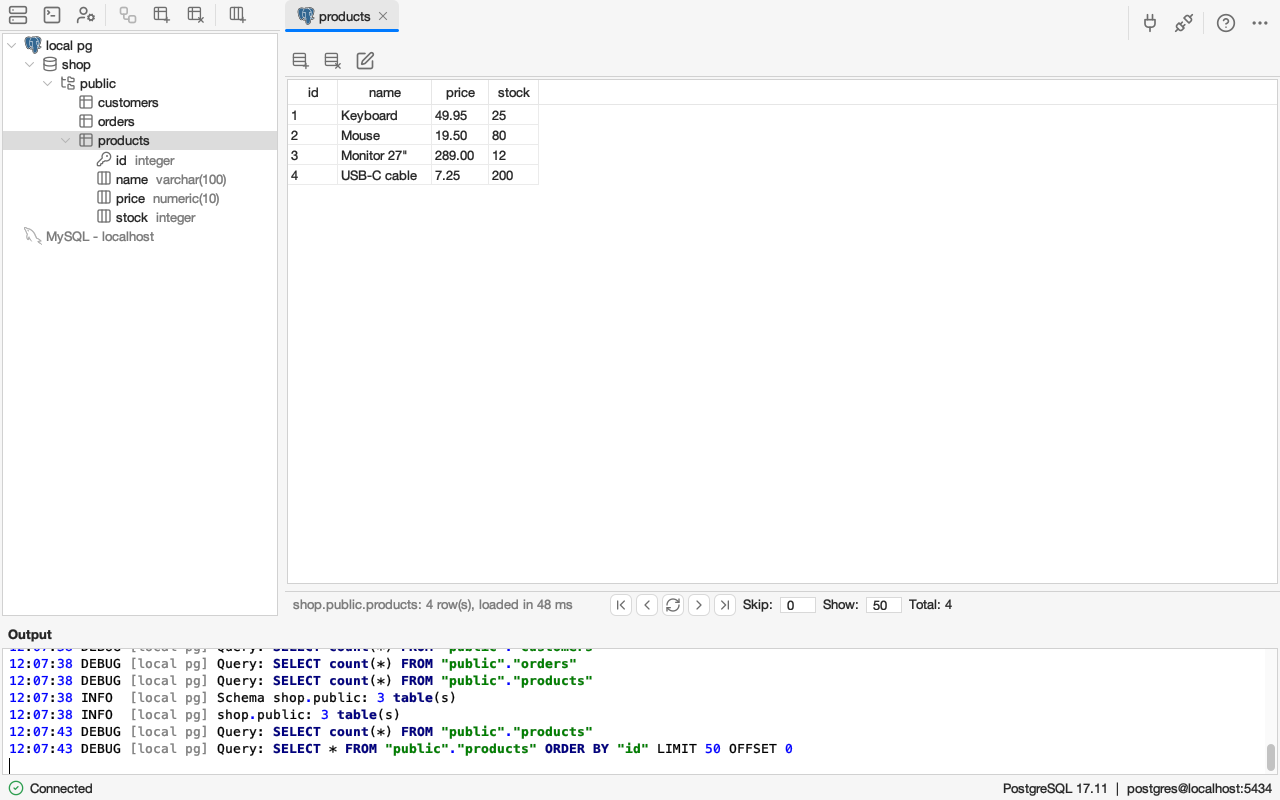
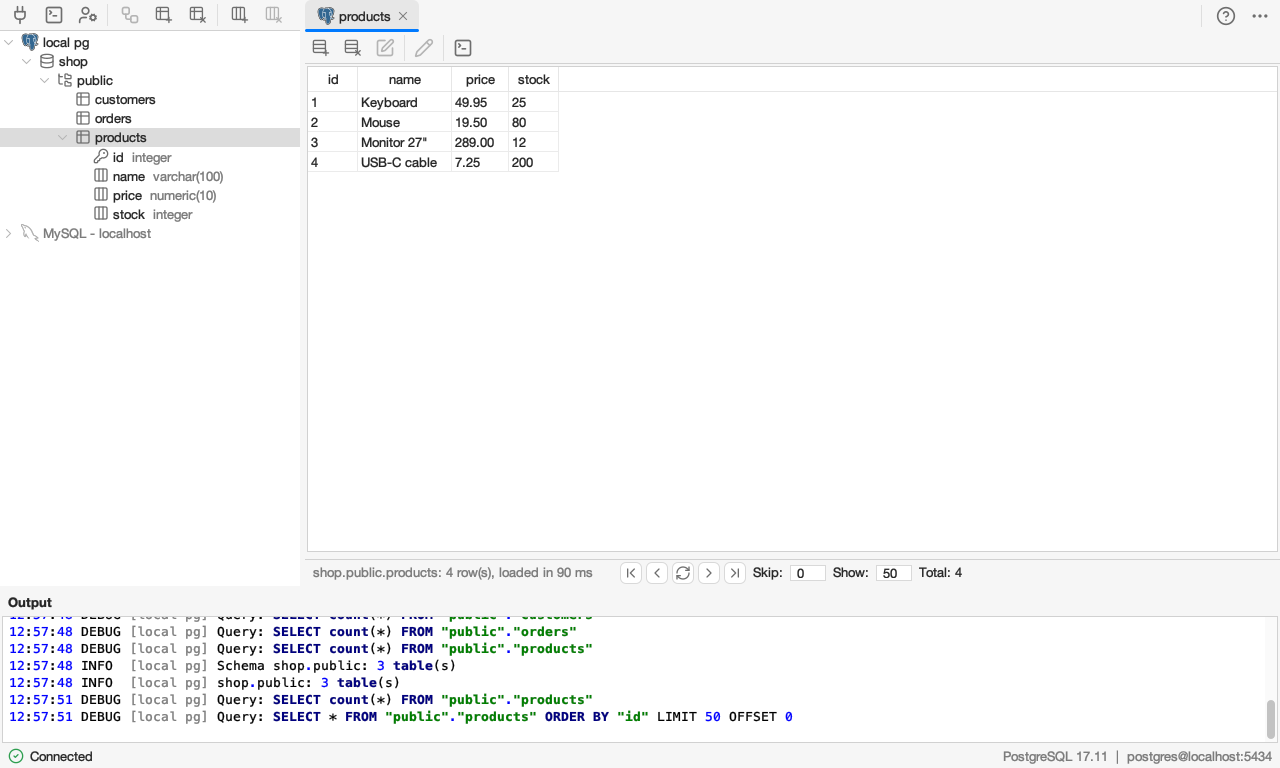
feat(connection): Connect in the explorer toolbar, double click opens a table, query on a table
Claude-Session: https://claude.ai/code/session_01TpgfMUNA4K1qpyx5mWFodg

diff --git a/src/main/java/nl/errorsoft/esql/connection/ui/ExplorerPanel.java b/src/main/java/nl/errorsoft/esql/connection/ui/ExplorerPanel.java
@@ -61,7 +61,7 @@ public class ExplorerPanel extends JPanel {
 	private static final String EMPTY = "empty";
 	private final JPanel cards = new JPanel(new java.awt.CardLayout()); // The tree, or the hint when it is empty
 
-	private final JButton refreshButton = button("pc", "Reload databases");
+	private final JButton connectButton = button("imgConnectSmall", "Connect");
 	private final JButton queryButton = button("imgRunQuery", "New query");
 	private final JButton usersButton = button("imgUserManager", "User manager");
 	private final JButton designerButton = button("imgDesigner", "Open in designer");
@@ -76,6 +76,8 @@ public class ExplorerPanel extends JPanel {
 
 		tree.setRootVisible(false);
 		tree.setShowsRootHandles(true);
+		// A double click is handled in doubleClicked: a table opens without expanding, other nodes still expand or collapse.
+		tree.setToggleClickCount(0);
 		tree.setCellRenderer(new DatabaseTreeCellRenderer(images, null));
 		ToolTipManager.sharedInstance().registerComponent(tree);
 		tree.addTreeWillExpandListener(new TreeWillExpandListener() {
@@ -121,7 +123,7 @@ public class ExplorerPanel extends JPanel {
 		});
 
 		JToolBar toolbar = ToolbarButtons.toolbar();
-		toolbar.add(refreshButton);
+		toolbar.add(connectButton);
 		toolbar.add(queryButton);
 		toolbar.add(usersButton);
 		toolbar.add(ToolbarButtons.separator());
@@ -131,11 +133,11 @@ public class ExplorerPanel extends JPanel {
 		toolbar.add(ToolbarButtons.separator());
 		toolbar.add(addFieldButton);
 		toolbar.add(dropFieldButton);
-		ToolbarButtons.style(refreshButton, queryButton, usersButton, designerButton, createTableButton, dropTableButton, addFieldButton, dropFieldButton);
+		ToolbarButtons.style(connectButton, queryButton, usersButton, designerButton, createTableButton, dropTableButton, addFieldButton, dropFieldButton);
 		toolbar.setBorder(BorderFactory.createCompoundBorder(BorderFactory.createMatteBorder(0, 0, 1, 0, UIManager.getColor("Component.borderColor")),
 			toolbar.getBorder()));
 
-		refreshButton.addActionListener(e -> act(ConnectionWindowController::showDatabaseTree));
+		connectButton.addActionListener(e -> connectSelected());
 		queryButton.addActionListener(e -> act(ConnectionWindowController::startQueryTab));
 		usersButton.addActionListener(e -> act(ConnectionWindowController::showUserManagerDialog));
 		designerButton.addActionListener(e -> act(ConnectionWindowController::openDatabaseInDesigner));
@@ -271,7 +273,6 @@ public class ExplorerPanel extends JPanel {
 		boolean inDatabase = selected instanceof Database || selected instanceof Schema;
 		boolean onTable = selected instanceof Table || selected instanceof TableColumn;
 
-		refreshButton.setEnabled(connected);
 		queryButton.setEnabled(connected);
 		usersButton.setEnabled(connected && controller.dialect().supports(Dialect.Feature.USER_MANAGER));
 		designerButton.setEnabled(connected && inDatabase);
@@ -292,7 +293,18 @@ public class ExplorerPanel extends JPanel {
 		}
 	}
 
-	/** A double click opens a database or table in a window; the tree expands a saved profile, which connects. */
+	/** Connects the selected saved profile; with anything else selected it opens the connection dialog for a new connection. */
+	private void connectSelected() {
+		TreePath path = tree.getSelectionPath();
+		Object selected = path == null ? null : ((DefaultMutableTreeNode) path.getLastPathComponent()).getUserObject();
+		if (selected instanceof ProfileNode profile) {
+			mainController.connect(profile.profile());
+		} else {
+			mainController.showConnectionProfileDialog();
+		}
+	}
+
+	/** A double click connects a saved profile, opens a table (without expanding it) and opens a database; other nodes expand or collapse. */
 	private void doubleClicked(MouseEvent e) {
 		TreePath path = tree.getPathForLocation(e.getX(), e.getY());
 		if (path == null) {
@@ -303,11 +315,20 @@ public class ExplorerPanel extends JPanel {
 
 		switch (object) {
 			case ProfileNode profile -> mainController.connect(profile.profile());
-			case Database database when controller != null -> controller.openDatabase(database);
-			case Table table when controller != null -> controller.openTable(table);
-			default -> {
-				// Other nodes expand or collapse, as the tree does by itself.
+			case Database database when controller != null -> {
+				controller.openDatabase(database);
+				toggle(path);
 			}
+			case Table table when controller != null -> controller.openTable(table);
+			default -> toggle(path);
+		}
+	}
+
+	private void toggle(TreePath path) {
+		if (tree.isExpanded(path)) {
+			tree.collapsePath(path);
+		} else {
+			tree.expandPath(path);
 		}
 	}
 

diff --git a/src/main/java/nl/errorsoft/esql/app/ui/MainWindow.java b/src/main/java/nl/errorsoft/esql/app/ui/MainWindow.java
@@ -65,8 +65,6 @@ public class MainWindow extends JFrame implements ActionListener {
 
 	// Toolbar
 	private JToolBar toolbar;
-	private JButton connectButton;
-	private JButton disconnectButton;
 
 	// Statusbar
 	private JPanel statusbar;
@@ -227,21 +225,9 @@ public class MainWindow extends JFrame implements ActionListener {
 		 * Toolbar
 		 */
 		toolbar = ToolbarButtons.toolbar();
-		connectButton = new JButton(imageLoader.getIcon("imgConnect"));
-		connectButton.setEnabled(true);
-		connectButton.setToolTipText("Connect");
-		toolbar.add(connectButton);
-
-		disconnectButton = new JButton(imageLoader.getIcon("imgDisconnect"));
-		disconnectButton.setEnabled(false);
-		disconnectButton.setToolTipText("Disconnect");
-		toolbar.add(disconnectButton);
-
 		helpButton = new JButton(imageLoader.getIcon("imgHelp"));
 		helpButton.setToolTipText("Help");
 		helpButton.getAccessibleContext().setAccessibleName("Help");
-		JSeparator buttonsSeparator = ToolbarButtons.separator();
-		toolbar.add(buttonsSeparator);
 		toolbar.add(helpButton);
 
 		preferencesButton = new JButton(imageLoader.getIcon("imgPreferences"));
@@ -249,7 +235,7 @@ public class MainWindow extends JFrame implements ActionListener {
 		preferencesButton.getAccessibleContext().setAccessibleName("Preferences");
 		toolbar.add(preferencesButton);
 
-		ToolbarButtons.style(connectButton, disconnectButton, helpButton, preferencesButton);
+		ToolbarButtons.style(helpButton, preferencesButton);
 
 		/*
 		 *	Statusbar
@@ -358,8 +344,6 @@ public class MainWindow extends JFrame implements ActionListener {
 		aboutItem.addActionListener(this);
 
 		// Toolbar
-		connectButton.addActionListener(this);
-		disconnectButton.addActionListener(this);
 		updateMenus();
 	}
 
@@ -425,7 +409,6 @@ public class MainWindow extends JFrame implements ActionListener {
 	/** The items that work on a connection are enabled while a connection is open. */
 	private void updateMenus() {
 		boolean connected = mainController.connectionCount() > 0;
-		disconnectButton.setEnabled(connected);
 		for (JMenuItem item : new JMenuItem[]{disconnectItem, importFromFileItem, exportToFileItem, designerItem}) {
 			item.setEnabled(connected);
 		}
@@ -536,11 +519,11 @@ public class MainWindow extends JFrame implements ActionListener {
 		// Check for menu or Toolbar events.
 		if (object == exitItem) {
 			closeWindow();
-		} else if (object == connectItem || object == connectButton) {
+		} else if (object == connectItem) {
 			mainController.showConnectionProfileDialog();
 		} else if (object == settingsItem || object == preferencesButton) {
 			mainController.showSettingsDialog();
-		} else if (object == disconnectItem || object == disconnectButton) {
+		} else if (object == disconnectItem) {
 			mainController.disconnect();
 		} else if (object == aboutItem) {
 			new AboutDialog(this, mainController.getAppName(), mainController.getAppVersion(), mainController.getAppCommit(),

diff --git a/src/main/java/nl/errorsoft/esql/query/control/QueryController.java b/src/main/java/nl/errorsoft/esql/query/control/QueryController.java
@@ -45,6 +45,8 @@ public class QueryController implements SchemaNames {
 	private volatile String database = "";
 	/** The schema chosen in the tab, null until one is (and on servers without schemas). */
 	private volatile String chosenSchema;
+	/** The schema a new tab is asked to start in (a tab opened on a table), used once when the schemas are listed. */
+	private volatile String startSchema;
 	private BiConsumer<List<String>, String> schemaListener = (schemas, current) -> {
 	};
 	private final Map<String, List<String>> columns = new ConcurrentHashMap<>();
@@ -153,12 +155,27 @@ public class QueryController implements SchemaNames {
 				schemaNames = schemas.stream().map(Schema::getName).toList();
 				tables = loaded;
 				List<String> names = schemaNames;
-				SwingUtilities.invokeLater(() -> schemaListener.accept(names, current));
+				String start = startSchema;
+				startSchema = null;
+				String shown = start != null && names.contains(start) ? start : current;
+				SwingUtilities.invokeLater(() -> {
+					schemaListener.accept(names, shown);
+					if (!java.util.Objects.equals(shown, current)) {
+						useSchema(shown, () -> {
+							// The picker shows the schema already.
+						});
+					}
+				});
 			} catch (Exception e) {
 				// Completion then offers keywords only, running statements still works.
 				log.warn("Could not load the tables of {} for completion: {}", database.getName(), e.getMessage());
 			}
 		});
+	}
+
+	/** Starts the tab in this schema instead of the current one, once its database's schemas are listed. Call before the tab is built. */
+	public void startInSchema(String schema) {
+		this.startSchema = schema;
 	}
 
 	/** Makes unqualified names resolve to the schema, for the statements and the completion, off the event thread; then {@code always} on it. */

diff --git a/src/main/java/nl/errorsoft/esql/connection/control/ConnectionWindowController.java b/src/main/java/nl/errorsoft/esql/connection/control/ConnectionWindowController.java
@@ -704,6 +704,22 @@ public class ConnectionWindowController {
 			databases -> view.showQueryTab(new QueryTab(controller, databases, selected)));
 	}
 
+	/** Opens a new query tab on the database (and schema) of a table, with a query on its first rows. */
+	public void startQueryTab(Table table) {
+		QueryController controller = new QueryController(this);
+		if (table.getSchema() != null && hasSchemas()) {
+			controller.startInSchema(table.getSchema().getName());
+		}
+		String quoted = dialect().quote(table.qualifiedName());
+		// LIMIT only on servers that page in SQL; the others get the whole table.
+		String sql = "SELECT * FROM " + quoted + (dialect().selectPage(quoted, "", 0, 100) != null ? " LIMIT 100" : "") + ";";
+		inBackground("Open query", "Listing databases...", controller::databases, databases -> {
+			QueryTab tab = new QueryTab(controller, databases, table.getDatabase());
+			tab.getEditor().setText(sql);
+			view.showQueryTab(tab);
+		});
+	}
+
 	public void showColumnPropertiesDialog(boolean add, boolean edit) {
 		if (edit ? selectedColumn("Edit column") == null : selectedTable("Add column") == null) {
 			return;

diff --git a/src/main/java/nl/errorsoft/esql/table/ui/TableDataTab.java b/src/main/java/nl/errorsoft/esql/table/ui/TableDataTab.java
@@ -238,6 +238,9 @@ public class TableDataTab extends JPanel implements ActionListener {
 		update.setToolTipText("Update changes");
 		update.addActionListener(e -> updateChanges());
 		updateButton = update;
+		JButton query = new JButton(icons.getIcon("imgRunQuery"));
+		query.setToolTipText("New query on this table");
+		query.addActionListener(e -> tableController.startQuery(table));
 		editValueButton = new JButton(icons.getIcon("imgEditValue"));
 		editValueButton.setToolTipText("Edit value (F2)");
 		editValueButton.addActionListener(e -> openValueEditor());
@@ -247,7 +250,9 @@ public class TableDataTab extends JPanel implements ActionListener {
 		bar.add(update);
 		bar.addSeparator();
 		bar.add(editValueButton);
-		nl.errorsoft.esql.ui.util.ToolbarButtons.style(insert, delete, update, editValueButton);
+		bar.addSeparator();
+		bar.add(query);
+		nl.errorsoft.esql.ui.util.ToolbarButtons.style(insert, delete, update, editValueButton, query);
 		bar.setBorder(BorderFactory.createMatteBorder(0, 0, 1, 0, UIManager.getColor("Component.borderColor")));
 		return bar;
 	}

diff --git a/src/main/java/nl/errorsoft/esql/table/control/TableController.java b/src/main/java/nl/errorsoft/esql/table/control/TableController.java
@@ -33,6 +33,11 @@ public class TableController {
 		blobTransferController.showUploadDialog(connectionWindowController.getMainWindow(), table, rowData, cellData);
 	}
 
+	/** Opens a query tab on the table's database with a query on its first rows. */
+	public void startQuery(Table table) {
+		connectionWindowController.startQueryTab(table);
+	}
+
 	/** Reads a page of rows; database work, not for the event thread. */
 	public TableCell[][] loadPage(Table table, int skip, int show) throws Exception {
 		return service().loadPage(table, skip, show);

diff --git a/src/main/java/nl/errorsoft/esql/app/ApplicationContext.java b/src/main/java/nl/errorsoft/esql/app/ApplicationContext.java
@@ -38,6 +38,7 @@ public final class ApplicationContext {
 			images.addIcon("redLight", "check-error", 16, false);
 			images.addImage("../images/splash.gif", "esql");
 			images.addIcon("imgConnect", "connect", 20, false);
+			images.addIcon("imgConnectSmall", "connect", 16, false);
 			images.addIcon("imgDisconnect", "disconnect", 20, false);
 			images.addIcon("imgHelp", "circle-help", 20, false);
 			images.addIcon("imgHelpTab", "circle-help", 16, false);

diff --git a/CLAUDE.md b/CLAUDE.md
@@ -56,7 +56,7 @@ Java Swing database manager (originally an Errorsoft graduation project, 2002-20
 * `query.SqlScript` splits a script on `;` outside quotes, dollar quotes and comments and finds the statement at the caret; `query.SqlContext` is a small tokenizer that tells what fits at the caret (tables, columns of an alias or table, anything) and resolves aliases. Both are pure and unit tested.
 * Completion uses the RSyntaxTextArea AutoComplete library (`com.fifesoft:autocomplete`, the release that matches rsyntaxtextarea), with `query.ui.SqlCompletionProvider`. Names that are not plain lower case identifiers go through `dialect.quote`.
 * Query shortcuts: menu key (Cmd/Ctrl)+Enter runs the selection or the statement at the caret, +Shift+Enter runs all; Ctrl+Space, Meta+Space and menu key+Shift+Space open the completion (macOS reserves Cmd+Space for Spotlight unless the user turns that off).
-* The explorer (`connection.ui.ExplorerPanel`, left of the desktop in a horizontal split) is one tree with a hidden root: a `ConnectionNode` per open connection with its `database.ui.ConnectionBranch` below it, then a grey `ProfileNode` per saved profile that is not connected (drawn like a connection with an expand handle: expanding it, a double click or Connect connects it, a will-expand listener vetoes the expansion because the `ConnectionNode` takes its place at once; Edit connection opens the profile dialog on it; `MainController.refreshProfiles`). A load in a branch only moves the selection when it was on or below the loaded node. Its toolbar holds the old tree actions, enabled for the selected node; double click on a database or table opens it. Columns show their type in grey after the name (`TableColumn.getTypeLabel`, the dialect's `datatypeName`), the key icon for the primary key, the Lucide link-2 icon (`foreign-key.svg`) for a foreign key, and a tooltip with not null, default and auto increment.
+* The explorer (`connection.ui.ExplorerPanel`, left of the desktop in a horizontal split) is one tree with a hidden root: a `ConnectionNode` per open connection with its `database.ui.ConnectionBranch` below it, then a grey `ProfileNode` per saved profile that is not connected (drawn like a connection with an expand handle: expanding it, a double click or Connect connects it, a will-expand listener vetoes the expansion because the `ConnectionNode` takes its place at once; Edit connection opens the profile dialog on it; `MainController.refreshProfiles`). A load in a branch only moves the selection when it was on or below the loaded node. Its toolbar starts with Connect (connects the selected saved profile, else opens the connection dialog) and holds the old tree actions, enabled for the selected node; the main toolbar at the top right has only Help and Preferences, Disconnect is in the connection's context menu. The tree's own toggle on double click is off (`setToggleClickCount(0)`): `doubleClicked` opens a table without expanding it, opens and toggles a database, toggles other nodes. A table data tab has "New query on this table" (`ConnectionWindowController.startQueryTab(Table)`, `QueryController.startInSchema`). Columns show their type in grey after the name (`TableColumn.getTypeLabel`, the dialect's `datatypeName`), the key icon for the primary key, the Lucide link-2 icon (`foreign-key.svg`) for a foreign key, and a tooltip with not null, default and auto increment.
 * What an action works on comes from the node selected in the explorer through `connection.TreeSelection` (pure, null when nothing is selected; `ConnectionView.selectedObject` returns the selected node only when it belongs to that connection, `getDatabase/getSchema/getTable/getTableColumn` delegate to `TreeSelection`). `ConnectionWindowController` asks for it with `selectedDatabase(action)`, `selectedTable(action)`, ... which warn "Select a table in the tree first." and return null. A query tab opened without a selection starts on the database the connection uses (`QueryController.startDatabase`).
 * Context menus are built when they open and show only the items that apply. The tree's items come from `connection.TreeMenu.itemsFor(node, dialect)` (pure, `TreeMenuTest`), based on `Dialect.supports(Feature)` and `Dialect.maintenanceCommands()`; `ExplorerPanel.perform` wires each item to a `ConnectionWindowController` method. The designer's menus are built in `DesignerCanvas` (canvas, table, database, note, connector; `DesignerCanvasMenuTest`). Popups open on `isPopupTrigger()` in both mousePressed and mouseReleased, after selecting what is under the cursor.
 * Create table, Edit table and Indexes are work windows of their connection (`table.ui.TableEditorTab`, `table.ui.IndexesTab`, opened by `TableEditorController` and `IndexesController` through `ConnectionView.showEditorTab`), one per table under a key (`selectEditorTab` jumps to an open one), titled "New table", "Edit orders", "Indexes orders". Save and Cancel are at the bottom. An editor implements `ui.component.EditorTab`: `ConnectionView.closeTab` (also the tab's close cross) asks its `confirmClose()` ("Discard changes?" when modified), `removeTab` closes it without asking after a successful Save. Esc does not close a tab (`EscapeToClose` is for dialogs). The field properties of one column (`ColumnPropertiesDialog`) and the name prompt for a new index stay dialogs.

diff --git a/docs/getting-started.md b/docs/getting-started.md
@@ -4,7 +4,7 @@
 
 ## Connecting
 
-Options > Connect (or the Connect button of the toolbar) opens the connection dialog. At the left is the list of saved profiles with three buttons above it: **+** makes a new profile (it is in the list as "New profile" until you save it), **-** removes the selected profile after asking, and the copy button duplicates it as "<name> copy" (no auto connect). Select a profile to edit it; when it has unsaved changes you are asked to save or discard them before another profile is shown. At the right are the **Name** of the profile and two tabs. The **Connection** tab holds the settings of a profile:
+Options > Connect (or the Connect button at the left of the explorer toolbar, with no saved profile selected) opens the connection dialog. At the left is the list of saved profiles with three buttons above it: **+** makes a new profile (it is in the list as "New profile" until you save it), **-** removes the selected profile after asking, and the copy button duplicates it as "<name> copy" (no auto connect). Select a profile to edit it; when it has unsaved changes you are asked to save or discard them before another profile is shown. At the right are the **Name** of the profile and two tabs. The **Connection** tab holds the settings of a profile:
 
 ![The connection dialog with a saved profile](connect.png)
 
@@ -26,11 +26,11 @@ The **Databases and schemas** tab is available after a successful test. It lists
 
 Profiles are saved in `conf/profiles.xml`. A saved password is stored there in plain text, so only save one on a machine you trust, or turn Save password off.
 
-Several connections can be open at the same time. They all appear in the explorer on the left, each under the name of its profile, so two connections to the same server as the same user are told apart. Saved profiles that are not connected are listed below them in grey: expand one with its arrow, double click it (or choose Connect in its context menu) to connect, Edit connection opens the profile dialog on it. When there are no connections and no saved profiles yet, the explorer shows a **New connection...** button that opens the connection dialog.
+Several connections can be open at the same time. They all appear in the explorer on the left, each under the name of its profile, so two connections to the same server as the same user are told apart. Saved profiles that are not connected are listed below them in grey: expand one with its arrow, double click it, press the Connect button of the explorer toolbar or choose Connect in its context menu to connect, Edit connection opens the profile dialog on it. When there are no connections and no saved profiles yet, the explorer shows a **New connection...** button that opens the connection dialog.
 
 ## The main window
 
-* **Explorer** on the left: every connection with its databases, their tables and the columns of each table. On PostgreSQL a database holds schemas, which hold the tables. Selecting a database, schema or table loads what is below it in the background. A column shows its type in grey after its name (`id  integer`, `name  varchar(100)`), a key icon for the primary key and a link icon for a foreign key; hover over it for not null, default and auto increment. Double click a database to list its tables, double click a table to open its data. Right click any node for its context menu, which only lists what the server supports:
+* **Explorer** on the left: every connection with its databases, their tables and the columns of each table. On PostgreSQL a database holds schemas, which hold the tables. Selecting a database, schema or table loads what is below it in the background. A column shows its type in grey after its name (`id  integer`, `name  varchar(100)`), a key icon for the primary key and a link icon for a foreign key; hover over it for not null, default and auto increment. Double click a database to list its tables, double click a table to open its data (its columns expand with the arrow). Disconnect is in the context menu of a connection. Right click any node for its context menu, which only lists what the server supports:
   * connection: Create database, New query, Users, Process list, Show status, Show variables, Reload databases, Disconnect;
   * saved profile: Connect, Edit connection;
   * database: Open, Create table, Open in designer, Export, Import, Drop database, Properties, Reload tables (PostgreSQL: Create schema and Reload schemas);

diff --git a/docs/tables-and-columns.md b/docs/tables-and-columns.md
@@ -11,6 +11,7 @@ Double click a table in the tree (or choose Open in its context menu) to show it
 * Click a cell and type to change it; leaving the cell writes it. An empty cell is stored as `NULL` and shown as a dimmed *NULL*, so it differs from the text "null".
 * **Update changes** in the toolbar at the top of the table data is enabled only when something is waiting to be written: a cell being edited with a different text, a changed value in the value editor, or a new row.
 * **Insert new row** adds an empty row to fill in (Update changes inserts it), **Delete row** removes the selected rows after asking.
+* **New query on this table** (in the toolbar of a table) opens a query tab on its database and schema with `SELECT * FROM "schema"."table" LIMIT 100;` ready to run.
 * **Edit value** (the pencil, F2, a double click or **Edit value...** in the context menu of a cell) opens the value editor below the grid. It colours JSON, XML and SQL, guessed from the value; **Format** pretty prints JSON and XML, **Wrap lines** wraps long lines, **Set NULL** empties the value, **Load from file...** and **Save to file...** read and write a text file. **Apply** writes the value and **Revert** goes back to it; both are enabled only when the text differs from the cell. While the editor has no changes it follows the selected cell. Query results and the server status open it read only.
 * A binary column (blob) is not shown as text: the value editor has **Upload...** to load a file into the cell and **Download...** to save it to a file.
 
